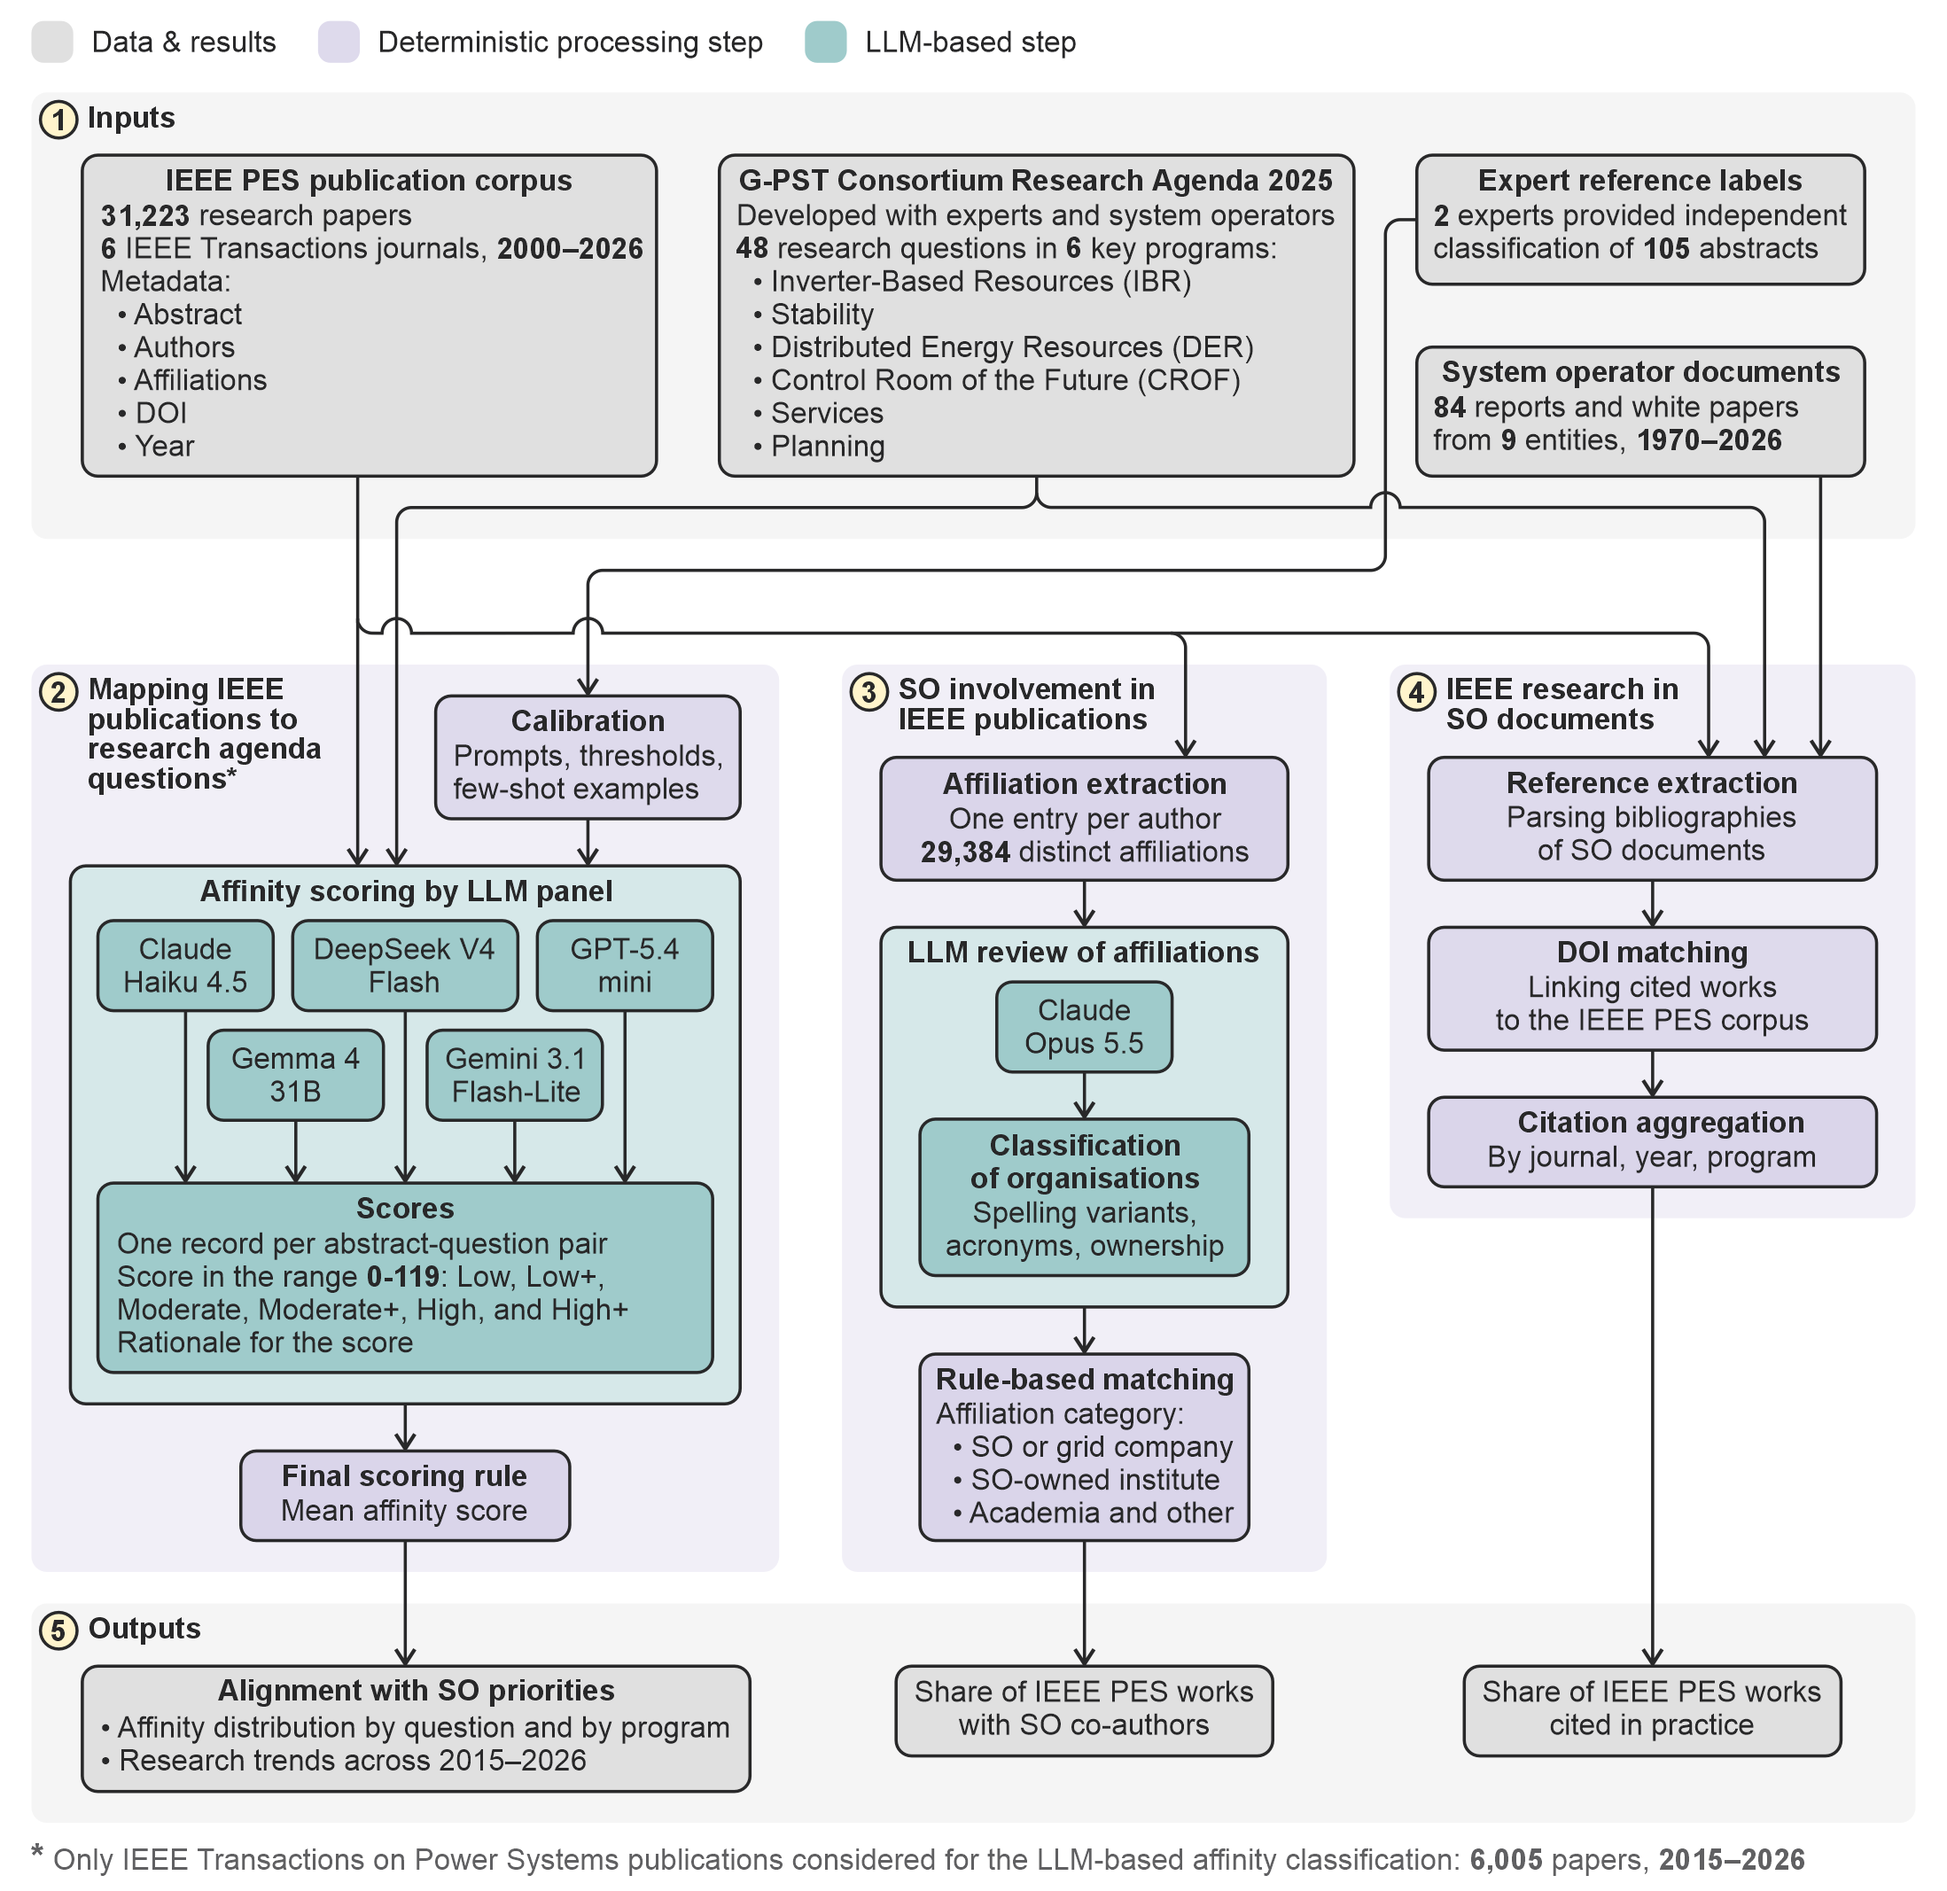
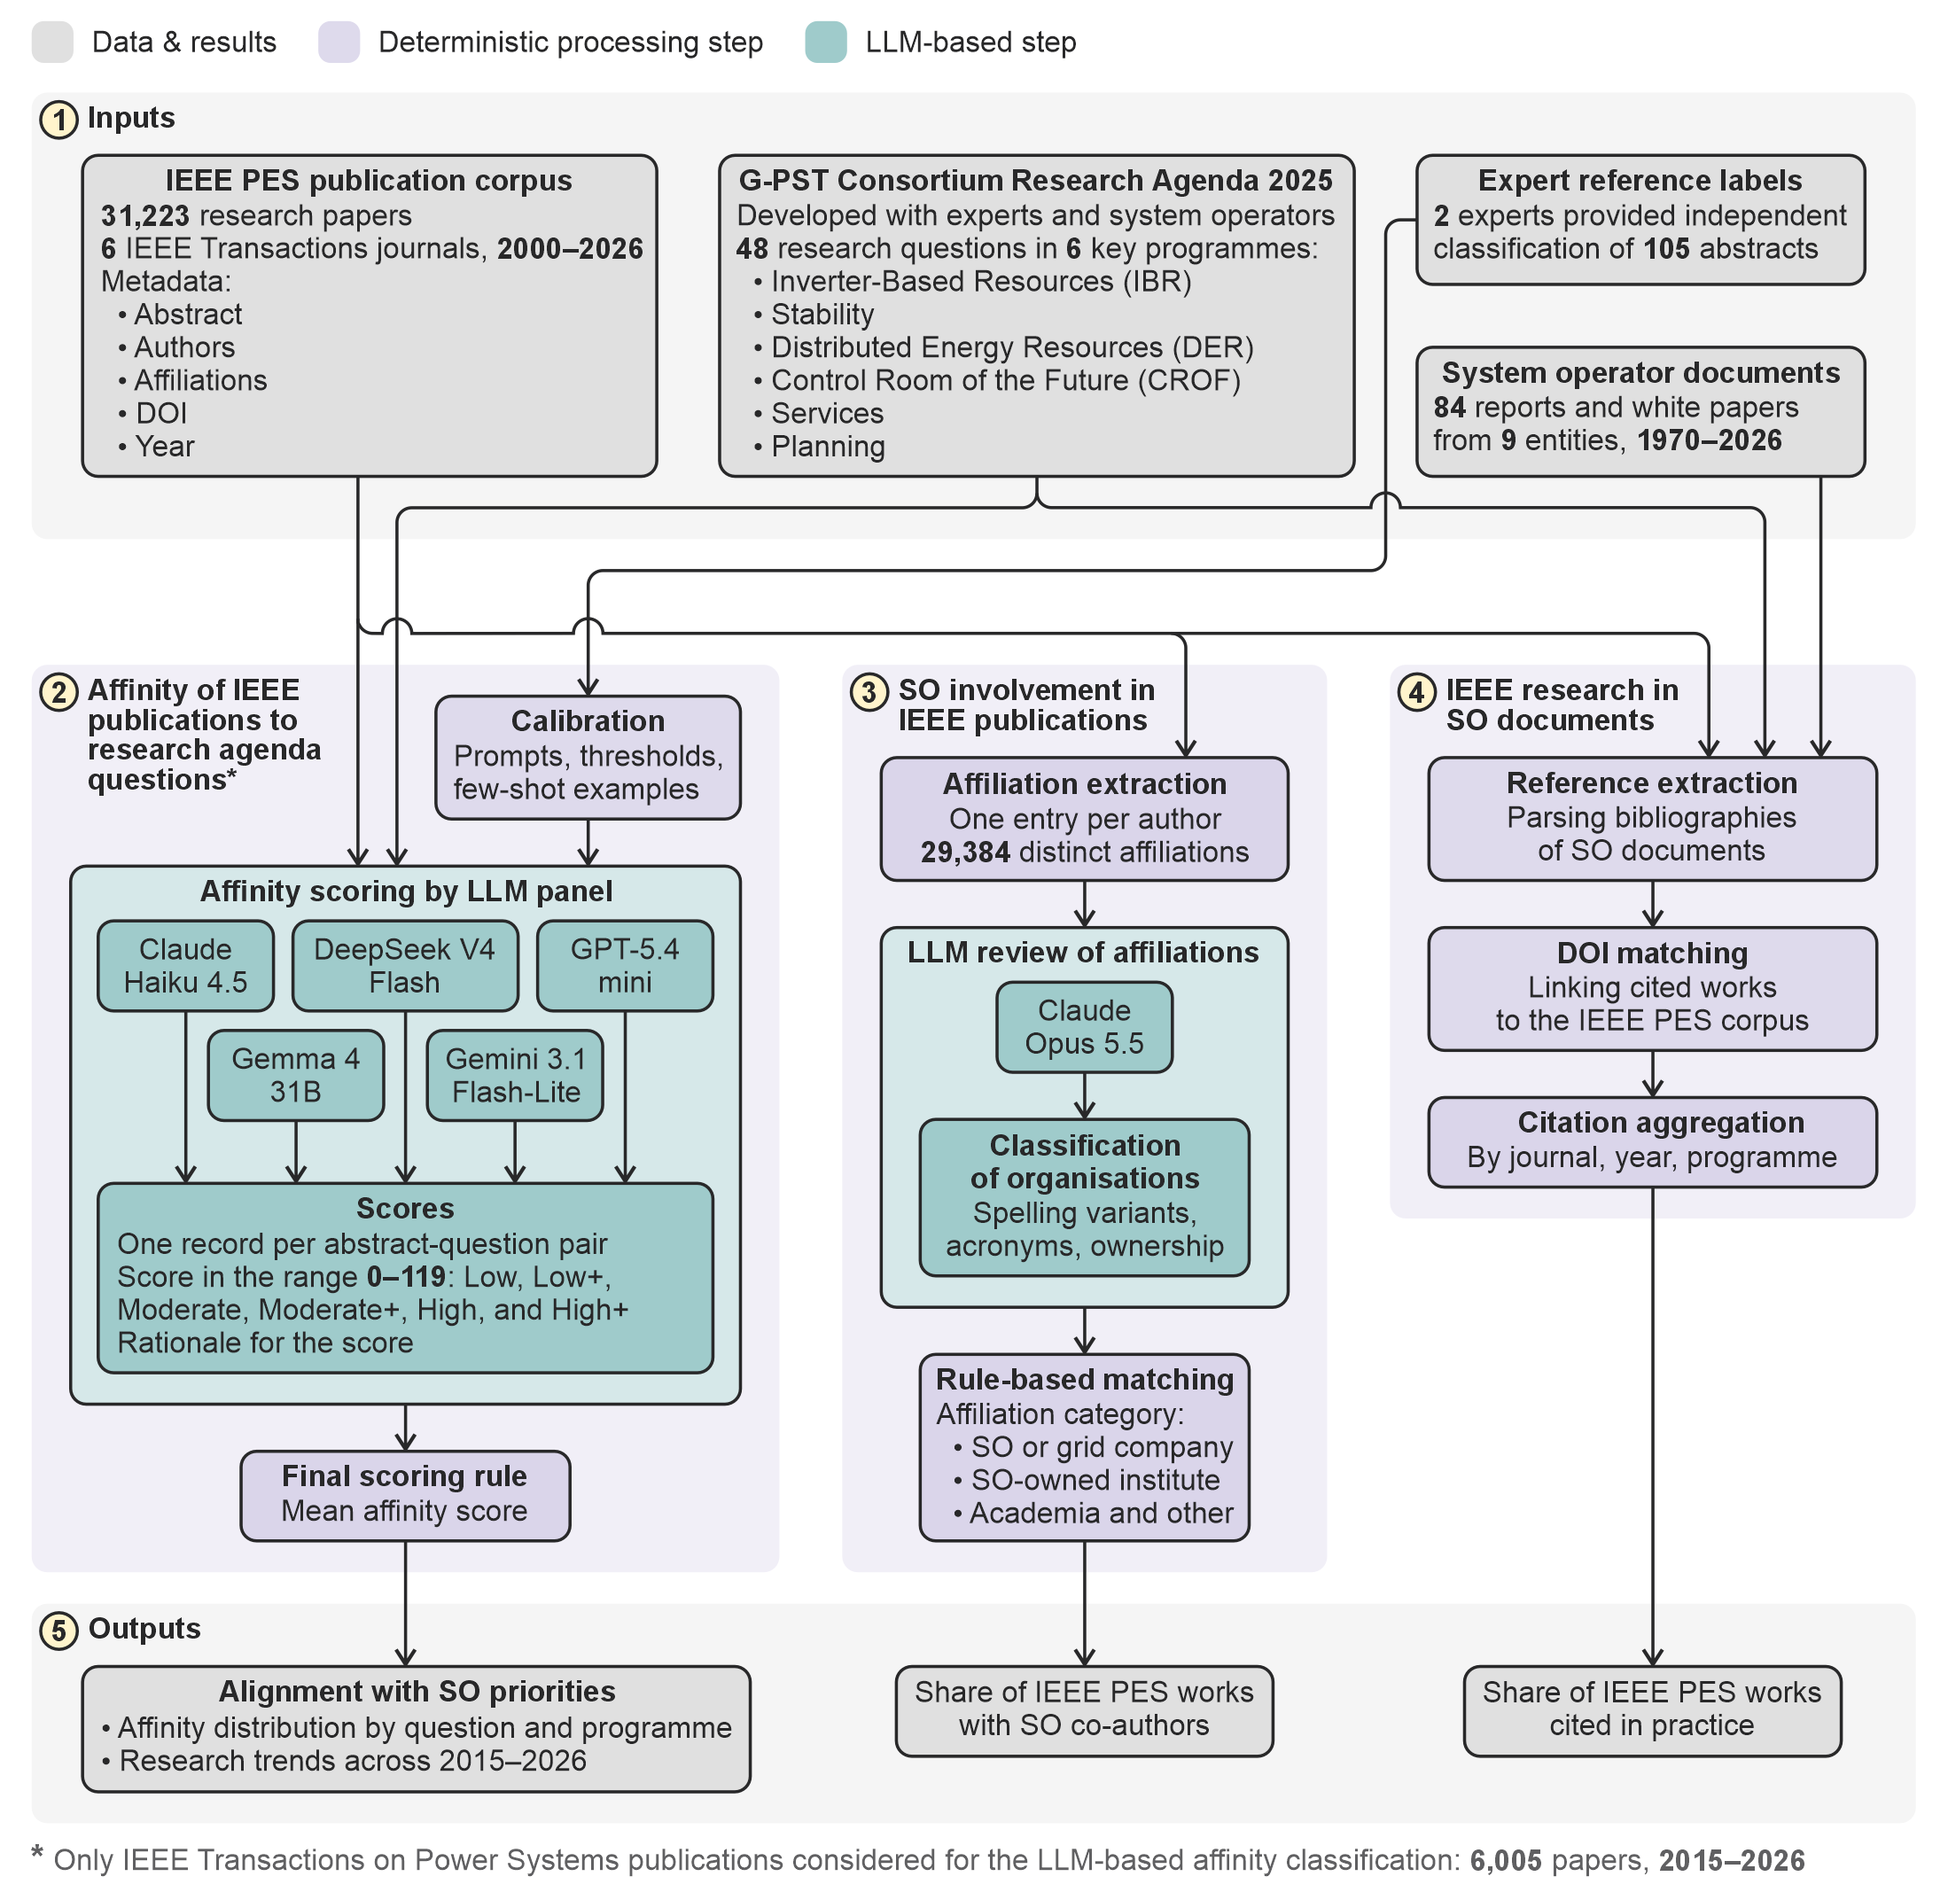
minor updates in alignment figures

diff --git a/article-alignment-classifier/scripts/util/generate_article_figures.py b/article-alignment-classifier/scripts/util/generate_article_figures.py
@@ -100,6 +100,13 @@ HEADLINE_HEIGHT_PT = 200
 # Years and paper counts on the x axis; 8 pt "2015" is wider than the space per year.
 HEADLINE_YEAR_TICK_FONT_SIZE_PT = 7
 HEADLINE_COUNT_FONT_SIZE_PT = 6  # paper counts "(358)" under each year
+# X-axis title, laid out like the tick labels: the first line at the axis font size, the second
+# (what the counts in brackets are) at HEADLINE_COUNT_FONT_SIZE_PT. None for no title.
+HEADLINE_X_TITLE = ("Year", "(number of papers)")
+HEADLINE_X_TITLE_STANDOFF_PT = 4  # between the tick labels and the title
+# Baseline to baseline between the title's two lines; smaller moves the second line up. The
+# year/count tick labels have 9.1 (1.3 x their 7 pt font).
+HEADLINE_X_TITLE_LINE_SPACING_PT = 6
 # Headline lines, in drawing order: the first is drawn at the back, the last on top.
 # "first"/"last": whether the first and last values sit above or below their markers
 # (chosen so labels of crossing lines do not collide). The line name goes at the right
@@ -107,12 +114,12 @@ HEADLINE_COUNT_FONT_SIZE_PT = 6  # paper counts "(358)" under each year
 # name_dy from the line.
 HEADLINE_LINES = {
     # Papers whose best programme reaches only Low or Low+ (none reaches Moderate).
-    "Low": dict(colour="#808080", first="above", last="below", name_year=None, name_dy=-10),
+    "Low": dict(colour="#808080", first="above", last="below", name_year=None, name_dy=6),
     "Moderate-or-better": dict(
         colour=LEVEL_COLORS["Moderate"], first="above", last="above", name_year=None, name_dy=-7
     ),
     "High-or-better": dict(
-        colour=LEVEL_COLORS["High"], first="below", last="above", name_year=None, name_dy=-15
+        colour=LEVEL_COLORS["High"], first="below", last="above", name_year=None, name_dy=13
     ),
 }
 ARTICLE_RUN_ID = "tpwrs_2026_tpwrs_2026"
@@ -319,8 +326,30 @@ def build_headline_figure(
         # The axes reserve their own space; the small top margin keeps "100%" on the page.
         margin=dict(l=0, r=0, t=round(5 * PX_PER_PT), b=0),
     )
+    if HEADLINE_X_TITLE is None:
+        x_title = None
+    else:
+        main, note = HEADLINE_X_TITLE
+        # Plotly spaces the lines by 1.3 x the title's own font size, whatever size the spans
+        # inside it have. The title's own size therefore only sets the line spacing (every
+        # character is in a span), and each line sets its size in a span: the first as large as
+        # Plotly's default axis title (1.2 x the base font, as on the y axis), the second as
+        # the counts.
+        # Plotly places the title by its own (smaller) font, so the larger first line reaches
+        # up by the difference; the standoff adds it back.
+        main_px = round(1.2 * ARTICLE_FONT_SIZE_PT * PX_PER_PT)
+        base_px = HEADLINE_X_TITLE_LINE_SPACING_PT / 1.3 * PX_PER_PT
+        note_px = HEADLINE_COUNT_FONT_SIZE_PT * PX_PER_PT
+        x_title = dict(
+            text=(
+                f"<span style='font-size:{main_px}px'>{main}</span>"
+                f"<br><span style='font-size:{note_px:.2f}px'>{note}</span>"
+            ),
+            font=dict(size=base_px),
+            standoff=HEADLINE_X_TITLE_STANDOFF_PT * PX_PER_PT + (main_px - base_px),
+        )
     figure.update_xaxes(
-        title=None,  # the partial 2026 is explained in the caption
+        title=x_title,  # the partial 2026 is explained in the caption
         tickmode="array",
         tickvals=years,
         ticktext=year_ticktext,
